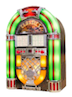
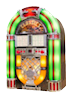
Adding some style to the player.

diff --git a/media/css/default.css b/media/css/default.css
@@ -1,7 +1,7 @@
-body { font-family: sans-serif; }
+body { font-family: sans-serif; font-size: 10px; }
 
-h1 { font-weight: bold; }
-h2 { font-weight: bold; }
+h1 { font-size: 12px; font-weight: bold; display:inline; }
+h2 { font-size: 12px; font-weight: bold; color: #ffffff; }
 
 a { color: #AA3333; }
 a:link { text-decoration:none }
@@ -9,27 +9,70 @@ a:visited { text-decoration:none }
 a:hover { text-decoration:underline }
 a:active { text-decoration:underline }
 
-#hd h1 { font-size: 140%; display:inline; }
+#hd { background-color: #5a779c;
+		margin: 4px;
+		padding: 4px;
+		color: #ffffff;
+}
+#hd h1 { font-size: 24px;
+		display:inline;
+		vertical-align: text-bottom;
+		}
+
+#inline_submit { display:inline; }
+
+.instructions { font-size: 10px; font-style: italic; }
 
 /* MODULE STYLES */
-#song_queue { background-color: #DDDDFF; margin: 1px; 
-			 padding: 5px;}
-#song_queue li { font-size: 85% }
+#song_queue { background-color: #edebf8;
+				background-image:url('/media/img/bg_fade.jpg');
+				background-repeat:repeat-x;
+				margin: 4px; 
+				padding: 4px;
+				}
+#song_queue li { font-size: 10px;
+				 list-style-type: none;
+				}
 			 
-#song_search { background-color: #DDDDFF; margin: 1px; 
-			 padding: 5px;}
+#song_search { 	background-color: #edebf8;
+				background-image:url('/media/img/bg_fade.jpg');
+				background-repeat:repeat-x;
+				margin: 4px;
+			  	padding: 4px;
+			  }
 			 
-#song_search_results { background-color: #DDDDFF; margin: 1px; 
-			 padding: 5px;}
+#song_search_results { background-color: #edebf8;
+						background-image:url('/media/img/bg_fade.jpg');
+						background-repeat:repeat-x;
+						margin: 4px; 
+						padding: 4px;
+					}
+#song_search_results li { font-size: 10px; }
 
-#upload_tool { background-color: #DDDDFF; margin: 1px; 
-			 padding: 5px;}
+
+#upload_tool {  background-color: #edebf8;
+				background-image:url('/media/img/bg_fade.jpg');
+				background-repeat:repeat-x;
+				margin: 4px; 
+				padding: 4px;
+			  }
 					
-#ft { background-color: #DDDDDD; margin: 1px; padding: 2px;
-	  font-size: 75%; }
+#ft { background-color: #DDDDDD;
+		margin: 4px; 
+		padding: 4px;
+	  	font-size: 9px;
+	}
 
 /* SONG QUEUE STYLES */
-.recently_played_track { color: #AAAAAA;}
-.currently_playing_track { color: #44BB44; font-weight: bold; }
+.recently_played_track { color: #888888;}
+.currently_playing_track { color: #44BB44;
+							font-weight: bold; 
+							background-color: #ffffff;
+						}
+.currently_playing_track span { color: #666666;
+								font-weight: bold;
+}
+.now_playing { color: #456782;
+}
 .upcoming_requested_track { color: #222222; font-weight: bold; }
 .upcoming_random_track { color: #222222;}

diff --git a/apps/music_player/templates/song_list.html b/apps/music_player/templates/song_list.html
@@ -1,9 +1,16 @@
 <h2>MUSIC QUEUE</h2>
+<br />
 <ul>
 	{% for request in recently_played_tracks reversed %}	
 		<li class="recently_played_track">{{request.song.artist}} - {{request.song.title}}</li>
 	{% endfor %}
-	<li class="currently_playing_track">{{currently_playing_track.song.artist}} - {{currently_playing_track.song.title}} (MM:SS)</li>
+	<li class="currently_playing_track">
+		<span class="now_playing">Now Playing...</span><br />
+		<span>Artist:</span> {{currently_playing_track.song.artist}}<br />
+		<span>Track:</span> {{currently_playing_track.song.title}}<br />
+		<span>Album:</span> {{currently_playing_track.song.album}}<br />
+		<span>Track Time:</span>(MM:SS)
+	</li>
 	{% for request in upcoming_requested_tracks %}	
 		<li class="upcoming_requested_track">{{request.song.artist}} - {{request.song.title}} [{{request.requester}}]</li>
 	{% endfor %}

diff --git a/apps/music_player/templates/index.html b/apps/music_player/templates/index.html
@@ -90,7 +90,7 @@
 
 <div id="doc" class="yui-t3">
 	<div id="hd" role="banner">
-		<img src="{{MEDIA_URL}}img/jukebox.png"> <h1>{{page_title}}</h1>
+		<img src="{{MEDIA_URL}}img/jukebox.png" height="44px" width="32px" /> <h1>{{page_title}}</h1>
 	</div>
   	<div id="bd" role="main">
 		<div id="yui-main">
@@ -111,7 +111,7 @@
 		</div>
 	</div>
   	<div id="ft" role="contentinfo">
-  		<p><a href="http://code.google.com/p/django-jukebox/">Django JukeBox</a></p>
+  		<p>Powered by <a href="http://code.google.com/p/django-jukebox/">Django JukeBox.</a></p>
   	</div>
 </div>
 

diff --git a/apps/music_player/templates/song_results.html b/apps/music_player/templates/song_results.html
@@ -1,8 +1,13 @@
 <h2>SEARCH RESULTS</h2>
+<span class="instructions">
+	Click on the icon to the left of the song to add it to the queue.
+</span>
 <ul>
 	{% for song in qset %}
 		<li><a href='javascript:request_song({{song.id}})'><img src="{{MEDIA_URL}}img/icons/control_play.png" style="vertical-align: text-bottom" alt="Request Song" /></a>
-			{{song.artist}} - {{song.title}}
+			{{song.artist}} - 
+			{{song.title}} 
+			<!-- <img src="{{MEDIA_URL}}img/icons/cd.png" style="vertical-align: text-bottom" alt="Search on Album" /> -->
 		</li>
 	{% endfor %}
 </ul>

diff --git a/apps/music_player/templates/song_search.html b/apps/music_player/templates/song_search.html
@@ -1,6 +1,5 @@
 	<h2>SEARCH</h2>
 	
 	<form id="song_form" name="song_form" onsubmit="search_request();return false;">
-		{{form.as_p}}
-		<input id="id_submit" class="submit" type="submit" value="Find Songs" />
+		{{form.keyword}}<input id="id_submit" style="display:inline;" class="submit" type="submit" value="Find Songs" />
 	</form> 

diff --git a/apps/music_player/views.py b/apps/music_player/views.py
@@ -17,7 +17,7 @@ def music_player_main(request):
     Main view for the music player.
     """
     pagevars = {
-        "page_title": "Django JukeBox Beta",
+        "page_title": settings.PROGRAM_NAME,
     }
 
     context_instance = RequestContext(request)
@@ -29,8 +29,12 @@ def display_song_queue(request):
     Display the song queue. Previously played, currently playing, upcoming
     user requests, then upcoming random requests.
     """
-    currently_playing_track = SongRequest.objects.filter(time_played__isnull=False).order_by('-time_played')[0]
-    recently_played_tracks = SongRequest.objects.filter(time_played__isnull=False).exclude(id=currently_playing_track.id).order_by('-time_played')[:settings.NUMBER_OF_PREVIOUS_SONGS_DISPLAY]
+    try:
+        currently_playing_track = SongRequest.objects.filter(time_played__isnull=False).order_by('-time_played')[0]
+        recently_played_tracks = SongRequest.objects.filter(time_played__isnull=False).exclude(id=currently_playing_track.id).order_by('-time_played')[:settings.NUMBER_OF_PREVIOUS_SONGS_DISPLAY]
+    except IndexError:
+        currently_playing_track = None
+        recently_played_tracks = SongRequest.objects.filter(time_played__isnull=False).order_by('-time_played')[:settings.NUMBER_OF_PREVIOUS_SONGS_DISPLAY]
     
     """
     Determine total number of songs being displayed. Display as many songs as
@@ -92,12 +96,11 @@ def song_search_results(request, qset=Song.objects.all()):
                                Q(album__icontains=s_search) |
                                Q(genre__icontains=s_search))
     else:
-        qset.order_by('?')[:10]
+        qset = qset.order_by('?')[:10]
         
     pagevars = {
-            "page_title": "Song Search Results",
-            "qset": qset,
-            }
+        "qset": qset,
+    }
     
     context_instance = RequestContext(request)
     return render_to_response('song_results.html', pagevars, 
@@ -105,7 +108,7 @@ def song_search_results(request, qset=Song.objects.all()):
             
 def request_song(request, song_id):
     """
-    Request the song.
+    Create a new SongRequest object for the given song id.
     """
     song = Song.objects.get(id=song_id)
     request = SongRequest(song=song,

diff --git a/settings.py b/settings.py
@@ -17,6 +17,9 @@ MUSIC_DIR_NAME = 'music'
 # The path to the music directory that contains all of the music files.
 MUSIC_DIR = os.path.join(MEDIA_ROOT, MUSIC_DIR_NAME)
 
+# Name as it should be displayed in the application header/title/etc...
+PROGRAM_NAME = "RockBox"
+
 RANDOM_REQ_GOOD_RATED_SONGS = 8
 # Any song with a rating greater or equal to this value is considered 'good'.
 RANDOM_REQ_GOOD_RATING = 3
